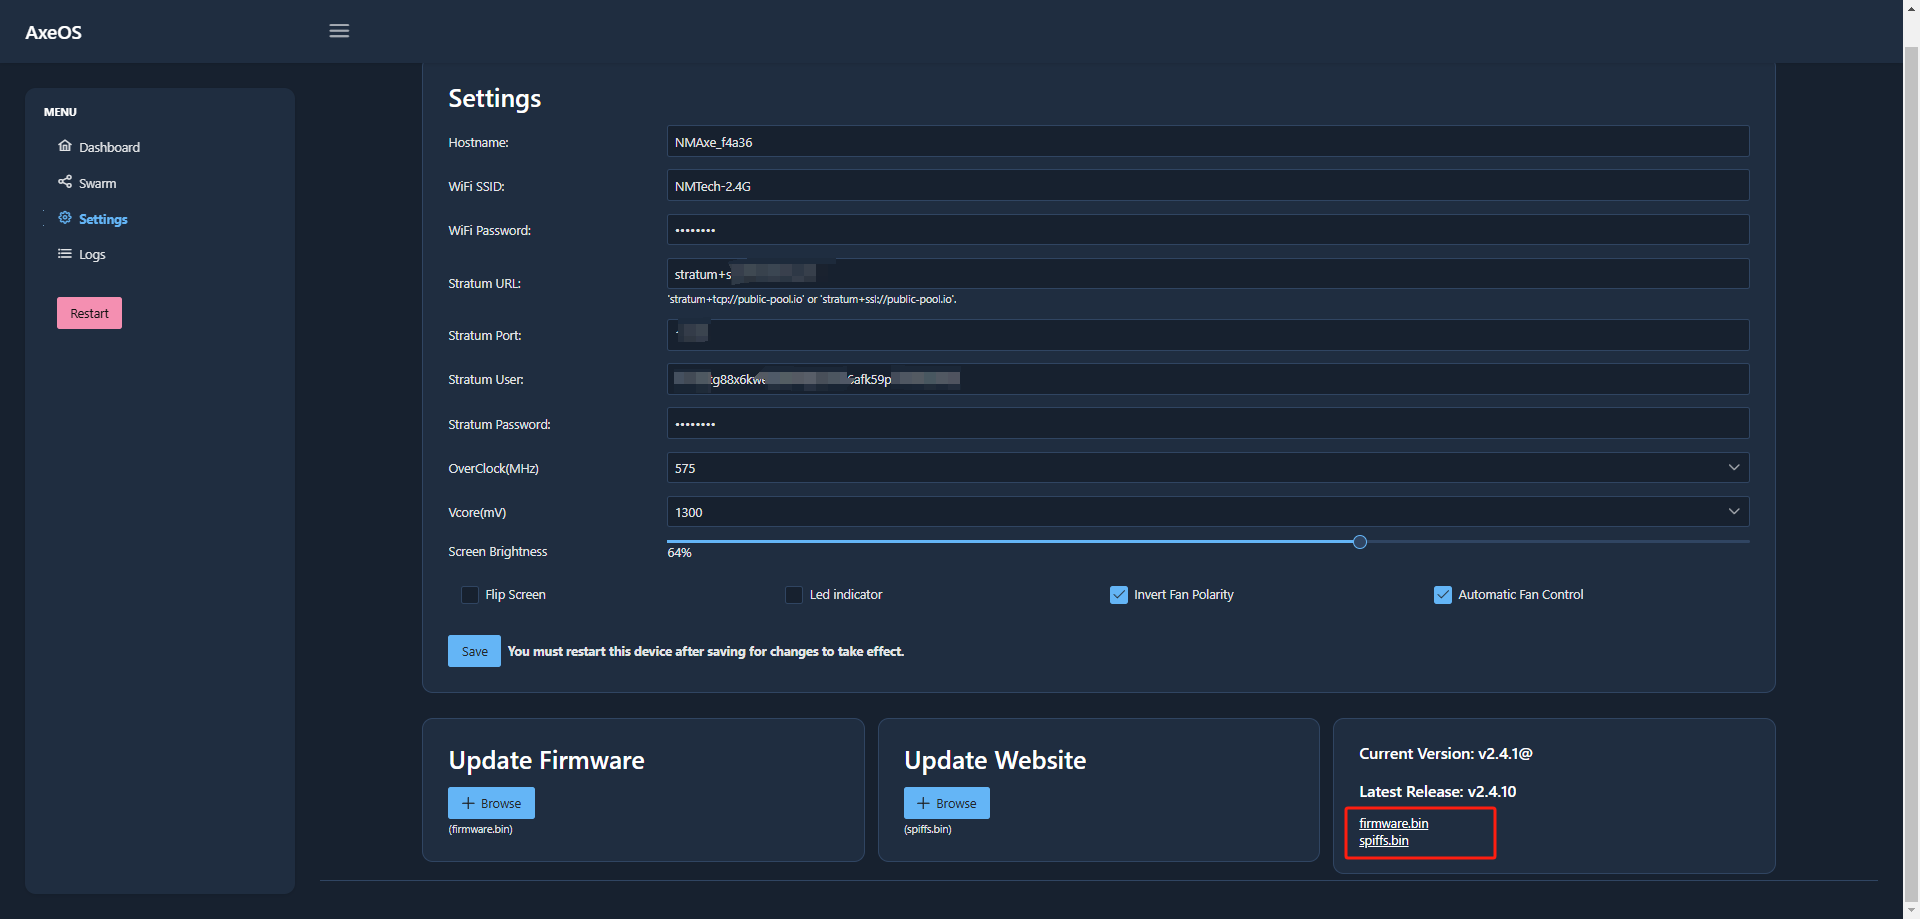
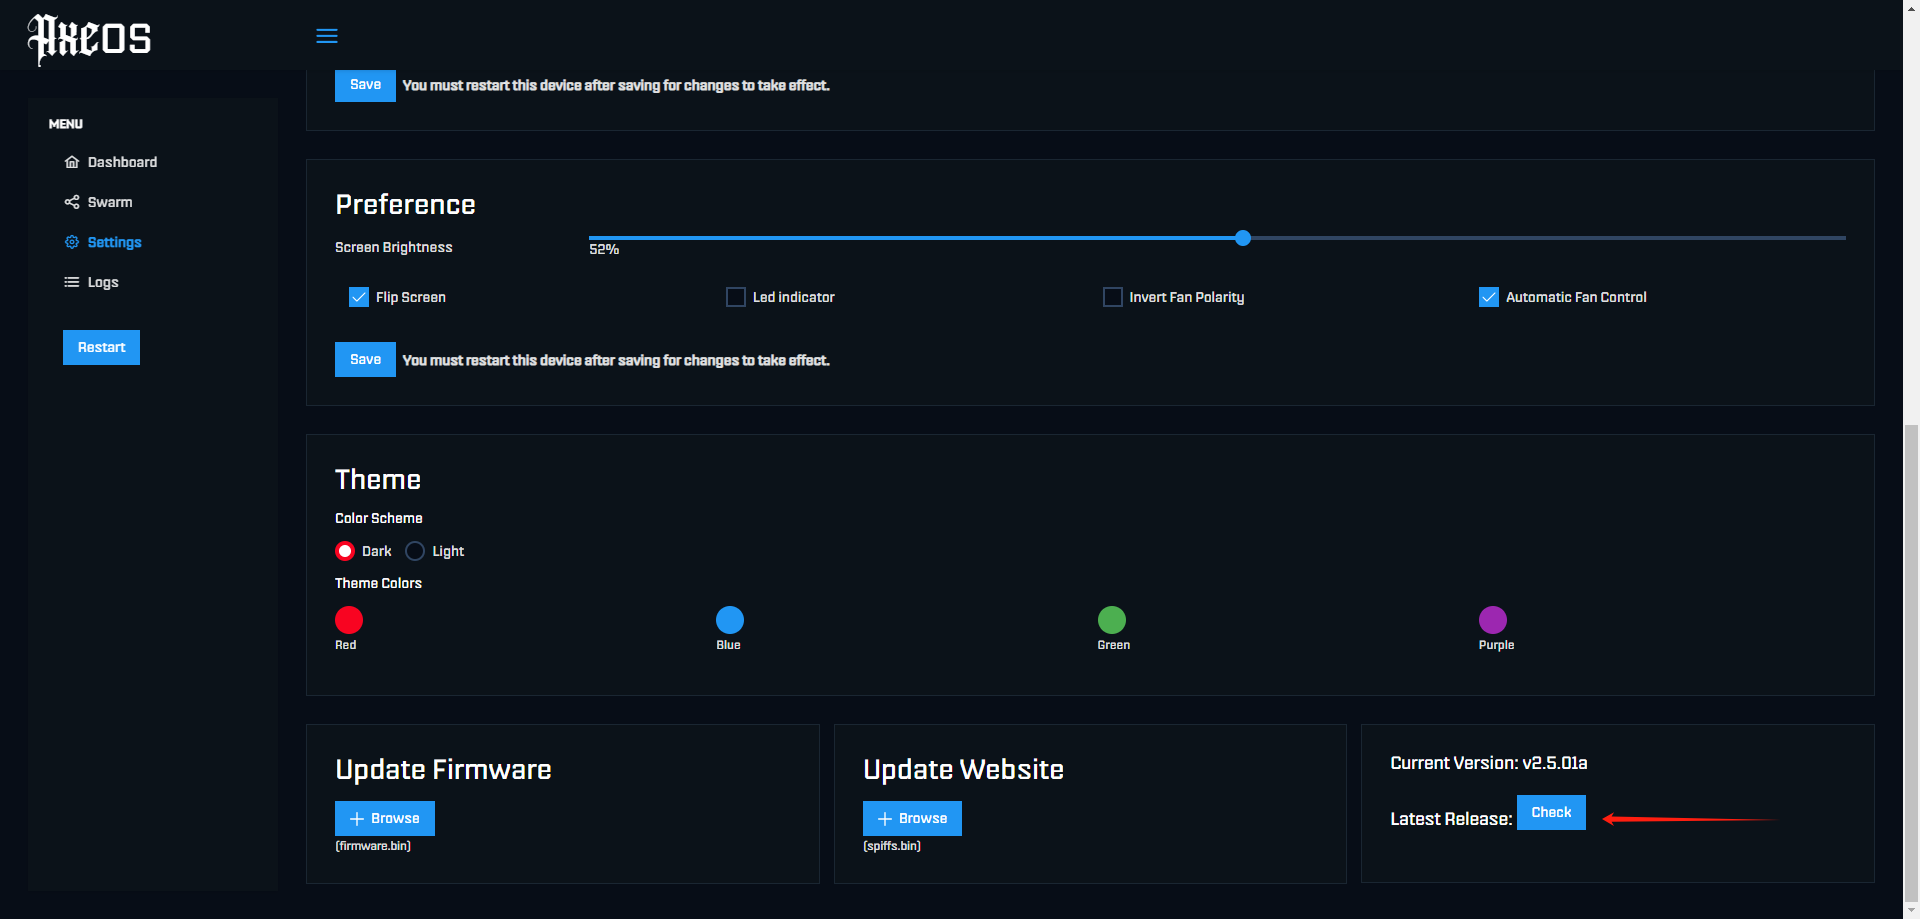
update readme

diff --git a/src/global.h b/src/global.h
@@ -9,7 +9,7 @@
 #include "miner.h"
 #include "market.h"
 
-#define CURRENT_FW_VERSION  "v2.5.01"
+#define CURRENT_FW_VERSION  "v2.5.01a"
 #define CURRENT_HW_VERSION  "v1.1.1"
 
 
@@ -24,7 +24,7 @@
 
 #define NVS_SAVE_INTERVAL   (60*60)  //second
 
-#define FAN_FULL_RPM_MIN    (4800)
+#define FAN_FULL_RPM_MIN    (4200)
 
 #define WIFI_RSSI_STRONG    (-60)
 #define WIFI_RSSI_GOOD      (-70)

diff --git a/readme.md b/readme.md
@@ -129,6 +129,16 @@ Download the latest **firmware.bin** and **spiffs.bin** file.
 ## Release Log
 ***
 
+### (2025.01.xx) - v2.5.01
+- Add:
+  - None.
+- Fixed:
+  - None.
+- Improved:
+  - AxeOS follow 'skot' version, theme preference option for user. 
+- Modify:
+  - Fan self test min rpm from 4800 to 4200 to fit compatible noctua fan.
+
 ### (2025.01.22) - v2.4.13
 - Add:
   - Market price support BTC, BCH, XEC, DGB.